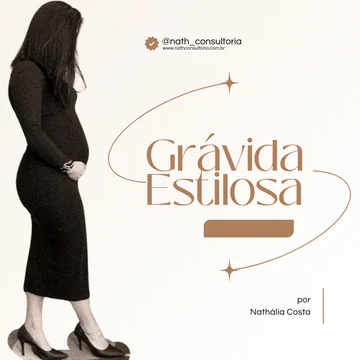
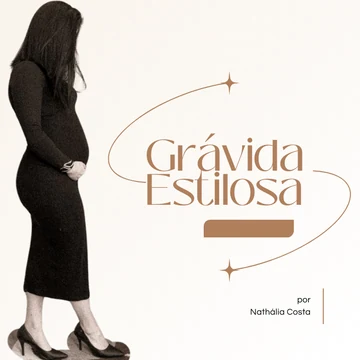
feat: CTA com Google Ads URL oficial PRODUCT_PAGE, copy aprovada e capa sem contatos
- CTAs -> go.hotmart.com/H106516913T?dp=1&redirectionUrl=... (PRODUCT_PAGE)
- copy aprovada pelo proprietário; nota discreta sobre página externa
- derivada da capa sem @perfil e domínio externo (original preservado fora do repo)
- QA v3 (screenshots), README e matriz atualizados; src segue desativado

Changed region(s): [[0.3972, 0.0917, 0.6722, 0.1528]]

diff --git a/produtos/gravida-estilosa/index.html b/produtos/gravida-estilosa/index.html
@@ -4,7 +4,7 @@
   <meta charset="UTF-8" />
   <meta name="viewport" content="width=device-width, initial-scale=1.0" />
   <title>Grávida Estilosa: análise independente do curso de estilo para gestantes</title>
-  <meta name="description" content="Análise independente do curso online Grávida Estilosa (Hotmart): o que ele aborda, para quem pode fazer sentido, o que conferir antes de comprar e o que não conseguimos confirmar." />
+  <meta name="description" content="Análise independente do curso online Grávida Estilosa (Hotmart): o que ele aborda, para quem pode fazer sentido, o que observamos na Hotmart e o que conferir antes de comprar." />
   <meta name="robots" content="index,follow" />
   <link rel="canonical" href="https://trevodigitalconversoes.com.br/produtos/gravida-estilosa/" />
   <link rel="icon" href="../../assets/logo-social.png" />
@@ -44,139 +44,119 @@
   <main id="conteudo">
     <section class="hero" aria-labelledby="titulo">
       <p class="eyebrow">Análise independente · Curso online · Hotmart</p>
-      <h1 id="titulo">Vestir-se durante a gestação sem comprar por tentativa e erro</h1>
-      <p class="lead">O corpo muda de um mês para o outro, o guarda-roupa não acompanha e a lista de gastos só cresce. O <em>Grávida Estilosa</em> é um curso online de imagem e estilo para essa fase. Reunimos aqui o que dá para confirmar sobre ele, o que ainda não dá e como decidir com calma.</p>
-      <p><a class="cta-button" data-hotlink href="https://hotmart.com/pt-br/marketplace/produtos/gravida-estilosa/Q94220392S?ref=H106516913T" target="_blank" rel="noopener noreferrer sponsored" data-cta-position="hero">Ver a oferta na Hotmart</a></p>
-      <p class="hint">O botão abre a página do curso na Hotmart em outra aba. Confira preço e condições lá antes de comprar.</p>
+      <h1 id="titulo">Sua gravidez mudou. Seu guarda-roupa também — mas isso não significa começar tudo do zero.</h1>
+      <p class="lead">O <em>Grávida Estilosa</em> é um curso de imagem e estilo pensado para ajudar gestantes a entender melhor roupas, tecidos, caimentos e combinações durante as mudanças do corpo.</p>
+      <p>A proposta é trazer mais clareza para escolher o que usar, aproveitar melhor o que já está no guarda-roupa e fazer compras com mais critério durante essa fase.</p>
+      <p><a class="cta-button" data-hotlink href="https://go.hotmart.com/H106516913T?dp=1&amp;redirectionUrl=https%3A%2F%2Fhotmart.com%2Fpt-br%2Fmarketplace%2Fprodutos%2Fgravida-estilosa%2FQ94220392S" target="_blank" rel="noopener noreferrer sponsored" data-cta-position="hero">Ver a oferta atual na Hotmart</a></p>
+      <p class="hint">Página independente de afiliado. A compra, o pagamento e o acesso são processados pela Hotmart.</p>
       <figure class="cover">
-        <img src="assets/capa-produto-675.webp" srcset="assets/capa-produto-360.webp 360w, assets/capa-produto-675.webp 675w" sizes="(min-width:760px) 420px, calc(100vw - 32px)" width="675" height="675" fetchpriority="high" alt="Imagem de divulgação do curso Grávida Estilosa, por Nathália Costa: gestante de vestido preto justo, de perfil, com o título do curso ao lado." />
-        <figcaption>Imagem de divulgação do curso, usada pela própria página do produto na Hotmart.</figcaption>
+        <img src="assets/capa-produto-675.webp" srcset="assets/capa-produto-360.webp 360w, assets/capa-produto-675.webp 675w" sizes="(min-width:760px) 420px, calc(100vw - 32px)" width="675" height="675" fetchpriority="high" alt="Imagem de divulgação do curso Grávida Estilosa, por Nathália Costa: gestante de vestido preto justo, de perfil, ao lado do título do curso." />
       </figure>
     </section>
 
-    <section class="section" aria-labelledby="contexto">
-      <h2 id="contexto">Por que o guarda-roupa vira um problema</h2>
-      <p>Durante a gestação, o corpo passa por mudanças contínuas: as peças que serviam ontem apertam hoje, e as que servem hoje talvez não sirvam daqui a algumas semanas. Isso cria três dúvidas comuns:</p>
-      <ul>
-        <li><strong>O que vale o investimento?</strong> Muitas peças são usadas por poucos meses, então cada compra pesa.</li>
-        <li><strong>Como não repetir sempre as mesmas roupas?</strong> Sem critério, é fácil cair em poucas opções de conforto e sentir falta de variedade.</li>
-        <li><strong>O que dá para aproveitar do que já existe?</strong> Parte do guarda-roupa atual pode ser adaptada com ajustes de combinação, caimento e tecido.</li>
-      </ul>
-      <p>É nesse ponto que uma orientação de imagem e estilo pode ajudar: menos compras por impulso, mais combinações com o que você já tem.</p>
+    <section class="section" aria-labelledby="complicado">
+      <h2 id="complicado">Quando se vestir começa a parecer mais complicado</h2>
+      <p>Durante a gravidez, o corpo pode mudar rapidamente. Uma roupa que funcionava há poucas semanas pode já não vestir da mesma maneira — e, ao mesmo tempo, existem muitas outras prioridades competindo pelo orçamento.</p>
+      <p>É fácil acabar diante de duas situações: comprar peças que serão pouco aproveitadas ou repetir sempre as mesmas combinações por não saber o que funciona melhor nessa fase.</p>
+      <p>O Grávida Estilosa aborda justamente esse problema pelo ponto de vista de imagem, estilo, tecidos e organização do guarda-roupa.</p>
     </section>
 
     <section class="section" aria-labelledby="oque">
-      <h2 id="oque">O que é o Grávida Estilosa</h2>
-      <p>É um curso online, criado por Nathália Costa, consultora de imagem e estilo, e vendido na Hotmart. Segundo a descrição atual na plataforma, a proposta é ensinar a escolher peças versáteis e a adaptar o guarda-roupa atual para se vestir com conforto e estilo durante a gravidez.</p>
-      <h3>Módulos listados na Hotmart</h3>
-      <p>Na área de conteúdo da Hotmart (conferida em 21/09/2026), o curso aparece em cinco módulos:</p>
-      <ol class="modules">
-        <li><strong>Boas-vindas:</strong> introdução, autoestima e PDF do módulo.</li>
-        <li><strong>Descubra o seu estilo:</strong> o estilo na gravidez, estilo x moda, teste de estilos (com PDF), aulas sobre os estilos criativo, dramático, elegante, romântico, sensual, tradicional e casual, refazer o teste, finalização e PDF resumo do módulo.</li>
-        <li><strong>O corpo da gestante:</strong> aula sobre o corpo da gestante e PDF do módulo.</li>
-        <li><strong>Tecidos:</strong> os melhores tecidos para a gestante e PDF do módulo.</li>
-        <li><strong>Closet:</strong> closet cápsula e PDF Closet.</li>
-      </ol>
-      <p class="note">Os nomes acima vêm da listagem da Hotmart. Não temos acesso ao conteúdo das aulas, à duração total nem ao número de aulas.</p>
+      <h2 id="oque">O que é o Grávida Estilosa?</h2>
+      <p>É um curso online de Nathália Costa, apresentada na Hotmart como Consultora de Imagem e Estilo.</p>
+      <p>A proposta do conteúdo é ajudar a gestante a compreender as mudanças do próprio corpo e aplicar conceitos de estilo de maneira prática durante a gravidez.</p>
+      <p>Em vez de simplesmente apresentar uma lista de roupas para comprar, o curso trabalha temas como estilo pessoal, tecidos, caimento, closet cápsula e aproveitamento do guarda-roupa.</p>
     </section>
 
-    <section class="section" aria-labelledby="aborda">
-      <h2 id="aborda">O que a proposta parece abordar</h2>
-      <p>Cruzando os títulos dos módulos com a descrição do curso, estes são os temas que ele indica cobrir:</p>
-      <ul>
-        <li><strong>Estilo pessoal:</strong> identificar o que combina com você, para não comprar só porque é “de grávida”.</li>
-        <li><strong>Corpo em transformação:</strong> como as mudanças da gestação afetam o caimento das roupas.</li>
-        <li><strong>Tecidos:</strong> quais materiais tendem a ser mais confortáveis e como o tecido influencia o caimento.</li>
-        <li><strong>Closet cápsula:</strong> um conjunto enxuto de peças que se combinam entre si, com PDF de apoio.</li>
-        <li><strong>Materiais em PDF</strong> ao longo dos módulos, além do teste de estilos.</li>
-        <li><strong>Peças versáteis e adaptação do guarda-roupa atual.</strong></li>
-      </ul>
-      <p class="note">O vídeo de divulgação da produtora também cita guia de looks, provadores e conteúdo sobre pós-parto e amamentação. Esses itens não aparecem na listagem atual da Hotmart, então <strong>não os tratamos como parte do curso</strong>. Se algum for importante para você, confirme com a produtora antes de comprar.</p>
+    <section class="section" aria-labelledby="encontra">
+      <h2 id="encontra">O que você encontra no curso</h2>
+      <h3>1. Autoestima e imagem durante a gestação</h3>
+      <p>O curso começa trabalhando a relação entre imagem, autoestima e as mudanças vividas durante essa fase, acompanhado de material em PDF.</p>
+      <h3>2. Descoberta do seu estilo</h3>
+      <p>Você aprende sobre a diferença entre moda e estilo e passa por um conteúdo específico para identificar preferências pessoais.</p>
+      <p>O módulo aborda diferentes estilos, entre eles: criativo, dramático, elegante, romântico, sensual, tradicional e casual.</p>
+      <p>Também há teste e material complementar em PDF.</p>
+      <h3>3. O corpo da gestante</h3>
+      <p>Um módulo dedicado às mudanças do corpo durante a gravidez e à compreensão de como essas transformações influenciam as escolhas de roupa e caimento.</p>
+      <h3>4. Tecidos</h3>
+      <p>O curso apresenta orientações sobre tecidos e características que podem fazer diferença na escolha das peças durante a gestação.</p>
+      <h3>5. Closet cápsula</h3>
+      <p>O conteúdo atual da Hotmart inclui um módulo de Closet Cápsula, acompanhado de um PDF Closet.</p>
+      <p>A proposta é mostrar como trabalhar com um conjunto mais funcional de peças e aumentar as possibilidades de combinação durante a gravidez.</p>
+    </section>
+
+    <section class="section" aria-labelledby="impulso">
+      <h2 id="impulso">Menos compras por impulso. Mais clareza para escolher.</h2>
+      <p>Uma das ideias mais interessantes da proposta é não tratar a gravidez como obrigação de substituir todo o guarda-roupa.</p>
+      <p>Entender quais peças fazem sentido, quais materiais funcionam melhor, o que pode continuar sendo aproveitado e como diferentes combinações podem ser criadas tende a tornar as decisões mais conscientes.</p>
+      <p>Isso não significa que você não precisará comprar roupas novas. Significa apenas fazer essas compras com mais informação.</p>
     </section>
 
     <section class="section split" aria-label="Para quem faz sentido">
       <div>
-        <h2>Pode fazer sentido se você…</h2>
+        <h2>Para quem pode fazer sentido</h2>
+        <p>O Grávida Estilosa pode ser interessante para quem:</p>
         <ul>
-          <li>está com dificuldade para adaptar o guarda-roupa às mudanças da gestação;</li>
-          <li>quer entender melhor peças, tecidos e caimento antes de gastar;</li>
-          <li>prefere comprar com critério em vez de por tentativa e erro;</li>
-          <li>gosta da ideia de orientação de imagem e estilo, em aulas gravadas.</li>
+          <li>está grávida e sente dificuldade para montar looks com o corpo mudando;</li>
+          <li>quer continuar expressando seu estilo pessoal durante a gestação;</li>
+          <li>deseja compreender melhor tecidos e caimentos;</li>
+          <li>quer aproveitar melhor peças que já possui;</li>
+          <li>procura critérios antes de investir em novas roupas;</li>
+          <li>gosta da ideia de estruturar um closet mais funcional.</li>
         </ul>
       </div>
       <div>
-        <h2>Talvez não seja para você se…</h2>
-        <ul>
-          <li>procura orientação médica ou de saúde (o curso é de moda e imagem);</li>
-          <li>busca acompanhamento nutricional ou promessa de mudança corporal;</li>
-          <li>quer roupas prontas ou um serviço de compras (o produto é digital);</li>
-          <li>espera resultado garantido: nenhum curso de estilo pode prometer isso.</li>
-        </ul>
+        <h2>Para quem provavelmente não é</h2>
+        <p>Este não é um curso médico, nutricional ou de preparação para o parto.</p>
+        <p>Também não é uma promessa de transformação corporal, nem existe garantia de que uma determinada roupa ou estilo produzirá o mesmo resultado para todas as pessoas.</p>
+        <p>Se a sua necessidade é acompanhamento médico, questões relacionadas à saúde da gestação devem ser tratadas com profissionais de saúde habilitados.</p>
       </div>
     </section>
 
-    <section class="section" aria-labelledby="analise">
-      <h2 id="analise">Nossa análise independente</h2>
-      <h3>O problema que o curso tenta resolver</h3>
-      <p>O custo escondido de se vestir na gestação costuma ser a compra sem critério: peças que não combinam com o resto, que duram poucas semanas ou que repetem o que você já tem. Uma orientação sobre estilo, tecido e combinações ataca justamente esse ponto, o de decidir <em>antes</em> de comprar.</p>
-      <h3>O que parece útil</h3>
-      <ul>
-        <li>Módulos com temas concretos (estilo, corpo, tecidos, closet), em vez de conselhos genéricos.</li>
-        <li>Foco em adaptar o que você já tem, o que pode reduzir gastos.</li>
-        <li>Formato de aulas gravadas, que permite assistir no seu ritmo.</li>
-      </ul>
-      <h3>Um roteiro rápido para usar antes de qualquer compra</h3>
-      <p>Mesmo sem o curso, este exercício ajuda a decidir se você precisa de orientação ou apenas de algumas peças-chave:</p>
-      <ol>
-        <li>Separe o que ainda veste com conforto hoje e o que já não serve.</li>
-        <li>Anote quais ocasiões você precisa cobrir (trabalho, casual, eventos).</li>
-        <li>Para cada peça que pretende comprar, verifique se ela combina com pelo menos três itens que você já tem.</li>
-        <li>Prefira tecidos que você já sabe que são confortáveis para você.</li>
-        <li>Se, mesmo assim, você continuar sem saber por onde começar, uma orientação estruturada pode valer a pena.</li>
-      </ol>
-      <h3>Limites do que conseguimos verificar</h3>
-      <ul>
-        <li>Não temos acesso ao conteúdo das aulas: nossa análise se baseia na página pública da Hotmart, no checkout e em material de divulgação.</li>
-        <li>Não há avaliações públicas suficientes na Hotmart para que possamos citá-las.</li>
-        <li>Não identificamos bônus adicionais. Confira a oferta atual na Hotmart.</li>
-        <li>A página oficial da produtora estava fora do ar quando esta análise foi feita.</li>
-      </ul>
-    </section>
-
     <section class="section" aria-labelledby="criadora">
-      <h2 id="criadora">Sobre a criadora</h2>
-      <p>Nathália Costa é apresentada na Hotmart como consultora de imagem e estilo, com formação e capacitação na área de moda. Para detalhes sobre a trajetória dela, leia o perfil da produtora na própria Hotmart. A produtora do curso aparece no checkout como “Nath Consultoria de Imagem e Estilo”.</p>
+      <h2 id="criadora">Sobre Nathália Costa</h2>
+      <p>Nathália Costa é apresentada atualmente na Hotmart como Consultora de Imagem e Estilo, com formação e capacitação na área de moda e consultoria de imagem.</p>
+      <p>No material oficial do Grávida Estilosa, ela relata ter desenvolvido o conteúdo enquanto também vivenciava a própria gestação, reunindo orientações e experiências relacionadas a estilo, tecidos, caimento e construção de um closet funcional.</p>
     </section>
 
-    <section class="section" aria-labelledby="comercial">
-      <h2 id="comercial">Informações comerciais</h2>
-      <p>Em 21/09/2026, o checkout da Hotmart mostrava <strong>R$ 197,00 à vista</strong>, com opção de parcelamento em até 12 vezes (as parcelas têm acréscimo, conforme o checkout). Preços, parcelas e condições podem mudar a qualquer momento: vale a oferta exibida na Hotmart no momento da compra.</p>
-      <p>A Hotmart informa <strong>garantia de 7 dias</strong> para este curso. Confira as condições completas na página da oferta e no checkout.</p>
+    <section class="section" aria-labelledby="observamos">
+      <h2 id="observamos">O que observamos antes de indicar</h2>
+      <p>Esta é uma análise independente feita por afiliado. Antes de direcionar você para a oferta, verificamos atualmente que:</p>
+      <ul class="checks">
+        <li>o produto continua cadastrado e acessível na Hotmart;</li>
+        <li>o checkout continua ativo;</li>
+        <li>os cinco módulos aparecem atualmente na plataforma;</li>
+        <li>há materiais em PDF dentro de diferentes módulos;</li>
+        <li>Closet Cápsula e PDF Closet aparecem no conteúdo atual;</li>
+        <li>a Hotmart exibe atualmente garantia de 7 dias;</li>
+        <li>a compra e o acesso são processados pela Hotmart.</li>
+      </ul>
+      <p>As condições comerciais podem ser alteradas pelo produtor. Por isso, confira sempre a oferta apresentada no momento da compra.</p>
+    </section>
+
+    <section class="section" aria-labelledby="externa">
+      <h2 id="externa">Sobre a página externa do produto</h2>
+      <p>Na verificação realizada em 21/09/2026, o endereço externo informado pela produtora não estava acessível. Por isso, as informações desta análise foram conferidas na Hotmart e os links desta página direcionam para o ambiente da própria Hotmart, onde você pode verificar a oferta e as condições atuais antes da compra.</p>
     </section>
 
     <section class="section" aria-labelledby="faq">
       <h2 id="faq">Perguntas frequentes</h2>
-      <details><summary>Esta é a página oficial do curso?</summary><p>Não. É uma página independente de afiliado, mantida pelo Trevo Digital Conversões. A produtora é a Nath Consultoria de Imagem e Estilo.</p></details>
-      <details><summary>Onde é feito o pagamento?</summary><p>Na Hotmart, que processa a compra em nome da produtora. Esta página não vende nem coleta pagamentos ou dados pessoais.</p></details>
-      <details><summary>O curso dá orientação médica?</summary><p>Não. O conteúdo é de moda e imagem. Dúvidas de saúde devem ser tiradas com profissionais de saúde.</p></details>
-      <details><summary>Como confiro preço e garantia?</summary><p>Na página da oferta e no checkout da Hotmart, antes de finalizar a compra. Os valores citados aqui foram conferidos em 21/09/2026 e podem ter mudado.</p></details>
-      <details><summary>Como acesso o curso depois de comprar?</summary><p>O acesso é dado pela Hotmart após a compra. Não confirmamos os detalhes da área de membros; consulte a Hotmart ou a produtora.</p></details>
-      <details><summary>O Trevo ganha algo se eu comprar?</summary><p>Sim, pode receber comissão da Hotmart, sem custo adicional para você. Essa comissão não altera o preço nem muda o que escrevemos aqui.</p></details>
-    </section>
-
-    <section class="section" aria-labelledby="avisos">
-      <h2 id="avisos">Avisos importantes</h2>
-      <ul>
-        <li>Página independente de afiliado, sem vínculo oficial com a produtora ou com a Hotmart.</li>
-        <li>As informações podem mudar; confira sempre a oferta atual na Hotmart.</li>
-        <li>Nenhum resultado é garantido. O curso trata de moda e imagem, não é orientação médica.</li>
-      </ul>
+      <details><summary>O Grávida Estilosa ainda está disponível?</summary><p>Sim. Na nossa verificação mais recente, a página do produto e o checkout estavam ativos na Hotmart.</p></details>
+      <details><summary>É um curso de moda para gestantes?</summary><p>O foco é imagem e estilo durante a gestação, abordando temas como estilo pessoal, mudanças do corpo, tecidos e organização do closet.</p></details>
+      <details><summary>Preciso comprar um guarda-roupa inteiro para acompanhar o curso?</summary><p>A própria proposta trabalha escolha de peças, aproveitamento do guarda-roupa e closet cápsula. O curso não exige que você substitua todas as suas roupas.</p></details>
+      <details><summary>O curso inclui materiais em PDF?</summary><p>Sim. A estrutura atualmente exibida pela Hotmart apresenta PDFs complementares em diferentes módulos, incluindo um PDF dedicado ao closet.</p></details>
+      <details><summary>Existe garantia?</summary><p>Na verificação atual, a Hotmart informa garantia de 7 dias. Confira a condição apresentada no checkout no momento da compra.</p></details>
+      <details><summary>Qual é o preço?</summary><p>Preço, moeda e condições de pagamento podem variar de acordo com a oferta e localização. Consulte o valor atualizado diretamente no checkout da Hotmart.</p></details>
+      <details><summary>Esta é a página oficial do Grávida Estilosa?</summary><p>Não. Esta é uma página independente de análise e pré-venda mantida por afiliado.</p></details>
+      <details><summary>Vocês recebem comissão?</summary><p>Sim. Caso a compra seja realizada por um dos nossos Links de Divulgação, podemos receber uma comissão da Hotmart. Isso não acrescenta custo adicional à sua compra.</p></details>
     </section>
 
     <section class="section final" aria-labelledby="final">
-      <h2 id="final">Pronta para conferir a oferta?</h2>
-      <p>Veja na Hotmart a descrição completa, o preço atual e as condições, e decida no seu tempo.</p>
-      <p><a class="cta-button" data-hotlink href="https://hotmart.com/pt-br/marketplace/produtos/gravida-estilosa/Q94220392S?ref=H106516913T" target="_blank" rel="noopener noreferrer sponsored" data-cta-position="final">Consultar a oferta na Hotmart</a></p>
+      <h2 id="final">Quer conferir se o Grávida Estilosa combina com o que você procura?</h2>
+      <p>Veja a oferta atual, confira as condições de compra e consulte os detalhes diretamente no ambiente da Hotmart.</p>
+      <p><a class="cta-button" data-hotlink href="https://go.hotmart.com/H106516913T?dp=1&amp;redirectionUrl=https%3A%2F%2Fhotmart.com%2Fpt-br%2Fmarketplace%2Fprodutos%2Fgravida-estilosa%2FQ94220392S" target="_blank" rel="noopener noreferrer sponsored" data-cta-position="final">Ver oferta do Grávida Estilosa na Hotmart</a></p>
+      <p class="hint">Compra, pagamento e acesso processados pela Hotmart.</p>
+      <p class="hint">Esta página é independente e contém links de afiliado. Informações sobre conteúdo, preço e condições podem ser alteradas pelo produtor. Confira sempre os dados apresentados pela Hotmart antes da compra.</p>
     </section>
   </main>
 

diff --git a/produtos/gravida-estilosa/cta-params.js b/produtos/gravida-estilosa/cta-params.js
@@ -27,7 +27,8 @@
           var url = new URL(anchors[i].getAttribute("href"));
           // src NAO e enviado: exigiria um experimentId proprio, ainda nao
           // definido pelo proprietario (mt01 pertence a outro microteste).
-          // O parametro fixo ref (afiliado) ja esta no href e nunca e alterado.
+          // ref, dp, redirectionUrl e o codigo de afiliado ja estao no href oficial da
+          // Hotmart e nunca sao alterados: so utm_* (lista fechada abaixo) e acrescentado.
           forwarded.forEach(function (k) { if (params[k]) url.searchParams.set(k, params[k]); });
           anchors[i].setAttribute("href", url.toString());
         } catch (e) { /* mantem o href estatico */ }

diff --git a/produtos/gravida-estilosa/styles.css b/produtos/gravida-estilosa/styles.css
@@ -37,3 +37,4 @@ summary{cursor:pointer;font-weight:600;min-height:44px;display:flex;align-items:
 .copyright,.small{text-align:center;margin:.4em 0}
 @media(prefers-reduced-motion:reduce){html{scroll-behavior:auto}}
 .cover{margin:20px 0 0}.cover img{display:block;width:100%;max-width:420px;height:auto;border-radius:16px;border:1px solid var(--line)}.cover figcaption{font:.85rem -apple-system,Arial,sans-serif;color:var(--muted);margin-top:6px}
+.checks{list-style:none;padding-left:0}.checks li{padding-left:1.6em;position:relative;margin:.3em 0}.checks li::before{content:"\2713";position:absolute;left:0;color:var(--taupe-dark);font-weight:700}

diff --git a/produtos/gravida-estilosa/README.md b/produtos/gravida-estilosa/README.md
@@ -1,22 +1,26 @@
 # Pre-sell independente: Grávida Estilosa
 
-**ESTADO (rodada 2): pronta para revisão humana. Sem merge/deploy autorizados.**
+**ESTADO (rodada 3): pronta para revisão humana. Sem merge/deploy autorizados.**
 
 ## Finalidade
 Página de análise/pré-venda independente de afiliado do curso "Grávida Estilosa" (Hotmart), destino futuro de anúncios Google Ads. URL prevista: `https://trevodigitalconversoes.com.br/produtos/gravida-estilosa/`.
 
-## HotLink / atribuição (rodada 2)
-- CTA: `https://hotmart.com/pt-br/marketplace/produtos/gravida-estilosa/Q94220392S?ref=H106516913T`.
-- `H106516913T` = código de afiliado deste produto. `xkc2j92m` = código da oferta (não é afiliado). `V106592210H` pertence a outro produto (10 Dicas de Fotografia): **nunca usar aqui**.
-- O antigo `go.hotmart.com/H106516913T` redireciona ao site quebrado da produtora e a variante `redirectionUrl` retorna 400; ambos descartados.
-- `ref=` é fixo no href e `cta-params.js` nunca o altera (nem por `?ref=` na URL da página).
-- Para trocar o CTA: editar o `href` dos dois `a.cta-button[data-hotlink]` em `index.html`.
+## HotLink / atribuição (rodada 3)
+- CTA (dois botões, `a.cta-button[data-hotlink]`): Google Ads URL oficial de **PRODUCT_PAGE** gerado pela Hotmart:
+  `https://go.hotmart.com/H106516913T?dp=1&redirectionUrl=https%3A%2F%2Fhotmart.com%2Fpt-br%2Fmarketplace%2Fprodutos%2Fgravida-estilosa%2FQ94220392S`
+- `H106516913T` = código de afiliado deste produto (afiliação 106516913). `xkc2j92m` = oferta (não é afiliado). `V106592210H` pertence a outro produto: **nunca usar aqui**.
+- **NÃO usar** o HotLink SALES_PAGE (`go.hotmart.com/H106516913T` sem `dp=1`/`redirectionUrl`) nem o googleAdsUrl de SALES_PAGE: a Hotmart aponta `usesExternalPage = true` e eles levam ao site externo da produtora, hoje inacessível.
+- `dp=1`, `redirectionUrl` e o código H106516913T ficam fixos no href. `cta-params.js` só acrescenta `utm_*` (contrato do Trevo) e ignora qualquer `ref`, `src`, `dp`, `redirectionUrl`, `gclid` etc. vindos da URL da página.
+- Para trocar o CTA: editar o `href` dos dois botões em `index.html`.
 
 ## Fontes
 Ver `docs/gravida-estilosa/etapa_1_a_v1_pesquisa_fontes.md` e `etapa_1_b_v1_matriz_evidencias.md`. Base de fatos: página pública da Hotmart e checkout (21/09/2026). Recuperação histórica do site da produtora: sem resultados. Vídeo de divulgação: só a transcrição fornecida foi usada como pista, nunca como fato.
 
 ## Ativos
-`assets/capa-produto-{360,675}.webp`: imagem de divulgação oficial fornecida pelo proprietário (`Postdoinstagramdiadoobstetrahomenagemminimalistamarromebege.png`, 675×675, a mesma usada pela Hotmart), convertida para WebP q85 (11 KB/28 KB); original não modificado e fora do repositório. Favicon reutiliza `assets/logo-social.png` do Trevo. Vídeo bruto (~260 MB) não versionado; incorporação futura só após confirmar proveniência ("Materiais de divulgação").
+- Origem do original: `Postdoinstagramdiadoobstetrahomenagemminimalistamarromebege.png` (675×675), imagem oficial do produto fornecida pelo proprietário (a mesma usada pela Hotmart). SHA-256 `98d42830…bcbab2`. **O original foi preservado sem alteração**, fora do repositório (`Projetos\trevodigitalconversoes-assets-originais\`).
+- Derivada: `assets/capa-produto-{360,675}.webp` (WebP q88, ~12 KB e ~30 KB). Remove **exclusivamente** as referências de contato hoje indisponíveis (perfil do Instagram e endereço do site da produtora), com preenchimento do fundo em degradê apenas nessa área. Pessoa, título "Grávida Estilosa", "por Nathália Costa" e composição permanecem intactos.
+- Finalidade: exibir a capa do produto na pre-sell sem oferecer chamada para destinos indisponíveis. Favicon reutiliza `assets/logo-social.png` do Trevo.
+- Vídeo bruto (~260 MB) não versionado; incorporação futura só após confirmar proveniência ("Materiais de divulgação").
 
 ## Tracking
 Reaproveita o contrato existente: whitelist de `assets/js/tracking-config.generated.js`; somente `utm_*` repassados. **`src` está desativado**: exige um `experimentId` próprio a ser definido pelo proprietário (`mt01` pertence a outro microteste). `cta-params.js` **não carrega PostHog** (sem analytics/replay/cookies) porque o tema é gestação (categoria sensível) e o script existente está acoplado ao HotLink de outro produto. Decisão sobre analytics fica para revisão. DECISÃO PENDENTE: definir `experimentId` deste produto.
@@ -41,4 +45,4 @@ Sem formulários, sem dados pessoais, sem segredos. `rel="noopener noreferrer sp
 `git revert` do merge ou remoção da pasta `produtos/gravida-estilosa/`. Nada mais é alterado.
 
 ## Limitações
-Conteúdo das aulas não verificado; a imagem contém o domínio antigo da produtora dentro dela; página não listada em `/produtos/`; canônico do repositório novo precisará reconciliar depois (`apps/public-site`).
+Conteúdo das aulas não verificado; página não listada em `/produtos/`; canônico do repositório novo precisará reconciliar depois (`apps/public-site`).

diff --git a/docs/gravida-estilosa/etapa_1_b_v1_matriz_evidencias.md b/docs/gravida-estilosa/etapa_1_b_v1_matriz_evidencias.md
@@ -28,4 +28,7 @@ Rodada 2: novas evidências fornecidas pelo proprietário a partir da Hotmart (p
 | Módulo 3: O Corpo da Gestante; PDF Módulo | Hotmart | 21/09/2026 | CONFIRMADA **(R2)** | SIM | |
 | Módulo 4: Os melhores tecidos para a gestante; PDF Módulo | Hotmart | 21/09/2026 | CONFIRMADA **(R2)** | SIM | |
 | Código de afiliado do produto = H106516913T; oferta = xkc2j92m (NÃO é afiliado); V106592210H pertence a outro produto (ID 3651651) | proprietário + teste de fluxo | 21/09/2026 | CONFIRMADA **(R2)** | interno | Nunca usar V106592210H aqui. |
-| Imagem de divulgação (Postdoinstagram...png, 675×675) | fornecida pelo proprietário; usada pela Hotmart | 21/09/2026 | CONFIRMADA (proveniência) | SIM | Contém @nath_consultoria e o domínio antigo dentro da imagem; alt text descreve. |
+| Imagem de divulgação (Postdoinstagram...png, 675×675) | fornecida pelo proprietário; usada pela Hotmart | 21/09/2026 | CONFIRMADA (proveniência) | SIM | Original preservado; derivada web remove @nath_consultoria e o domínio externo (contato indisponível). |
+| Produto SALES_ENABLED/PUBLISHED/ACTIVE_ON_PLATFORM; afiliação ACTIVE; usesExternalPage = true | Hotmart API (resultado fornecido pelo proprietário) | 21/09/2026 | CONFIRMADA **(R3)** | interno | SALES_PAGE aponta ao site externo inacessível: não usar. |
+| Google Ads URL de PRODUCT_PAGE (go.hotmart.com/H106516913T?dp=1&redirectionUrl=…Q94220392S) | Hotmart (fornecido) + teste público | 21/09/2026 | CONFIRMADA **(R3)** | CTA | Teste: redireciona para a página do produto na Hotmart com `ref=H106516913T`, sem passar pelo domínio externo. |
+| Endereço externo da produtora inacessível | teste TLS/HTTP | 21/09/2026 | CONFIRMADA **(R3)** | SIM, em nota discreta | Não chamado de "site oficial"; Instagram não mencionado. |
